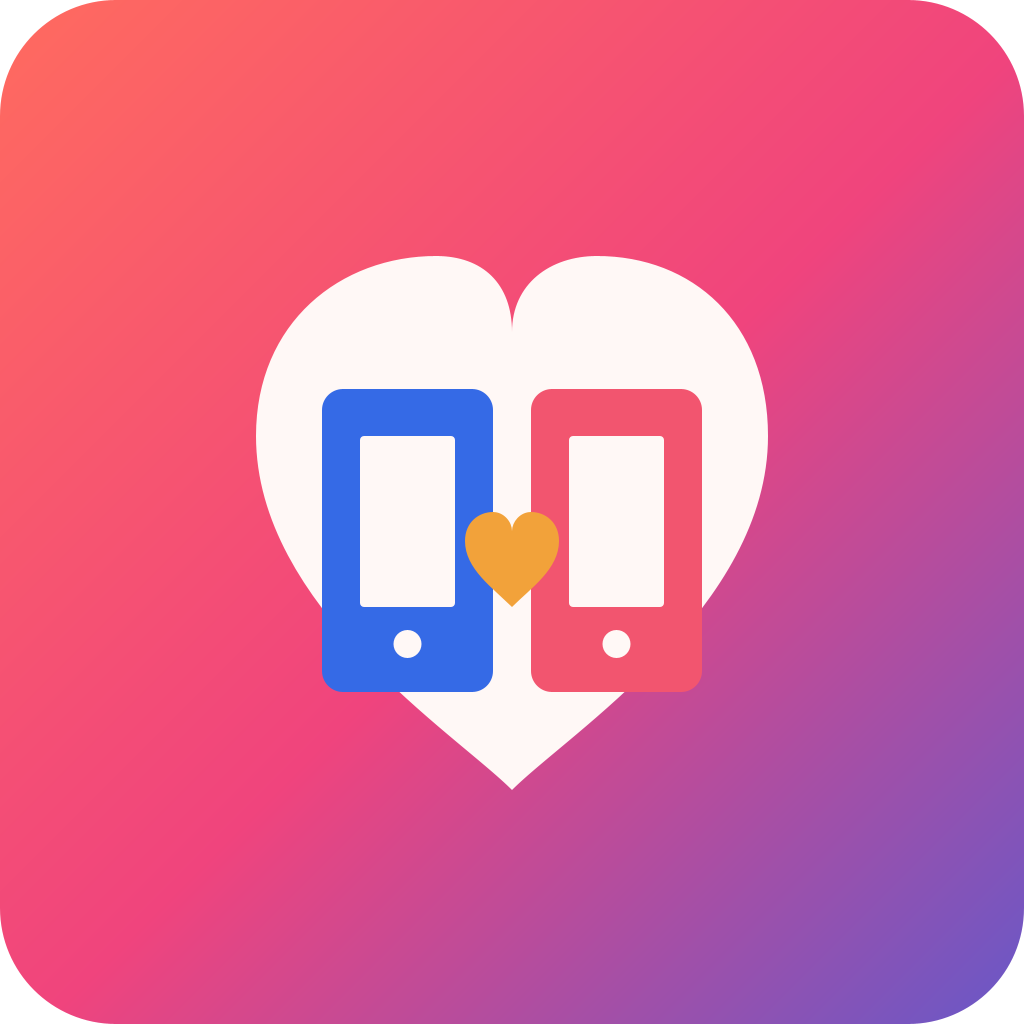
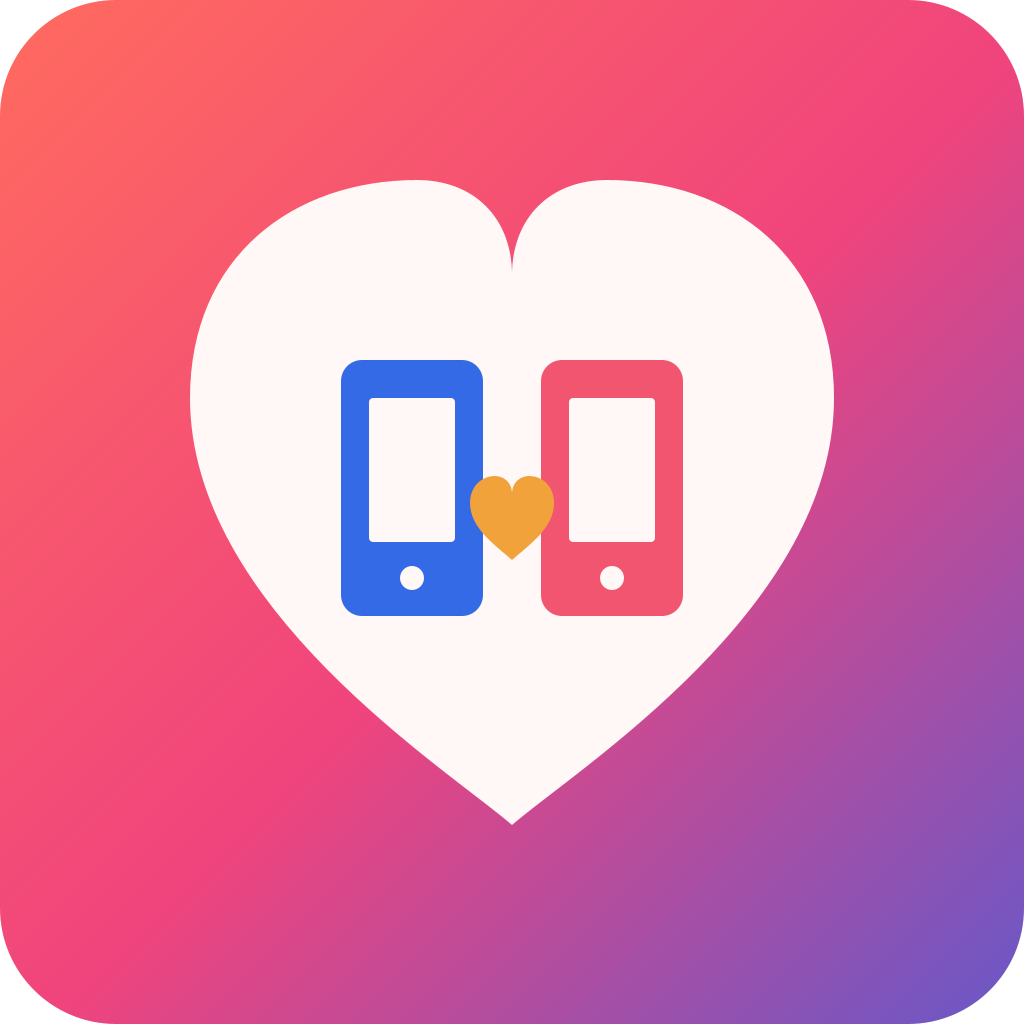
Contain launcher artwork within heart

Changed region(s): [[0.1875, 0.1562, 0.8125, 0.8125]]

diff --git a/scripts/GenerateLogoAssets.java b/scripts/GenerateLogoAssets.java
@@ -37,28 +37,28 @@ public class GenerateLogoAssets {
         g.fill(new RoundRectangle2D.Double(0, 0, size, size, 232 * s, 232 * s));
 
         Path2D heart = new Path2D.Double();
-        heart.moveTo(512 * s, 790 * s);
-        heart.curveTo(455 * s, 733 * s, 256 * s, 607 * s, 256 * s, 436 * s);
-        heart.curveTo(256 * s, 322 * s, 341 * s, 256 * s, 436 * s, 256 * s);
-        heart.curveTo(483 * s, 256 * s, 512 * s, 284 * s, 512 * s, 332 * s);
-        heart.curveTo(512 * s, 284 * s, 550 * s, 256 * s, 597 * s, 256 * s);
-        heart.curveTo(692 * s, 256 * s, 768 * s, 322 * s, 768 * s, 436 * s);
-        heart.curveTo(768 * s, 607 * s, 569 * s, 733 * s, 512 * s, 790 * s);
+        heart.moveTo(512 * s, 825 * s);
+        heart.curveTo(446 * s, 768 * s, 190 * s, 607 * s, 190 * s, 398 * s);
+        heart.curveTo(190 * s, 256 * s, 294 * s, 180 * s, 417 * s, 180 * s);
+        heart.curveTo(474 * s, 180 * s, 512 * s, 218 * s, 512 * s, 275 * s);
+        heart.curveTo(512 * s, 218 * s, 550 * s, 180 * s, 607 * s, 180 * s);
+        heart.curveTo(730 * s, 180 * s, 834 * s, 256 * s, 834 * s, 398 * s);
+        heart.curveTo(834 * s, 607 * s, 578 * s, 768 * s, 512 * s, 825 * s);
         heart.closePath();
         g.setColor(c(0xfff8f6));
         g.fill(heart);
 
-        drawPhone(g, 322 * s, 389 * s, 171 * s, 303 * s, c(0x356ae6), s);
-        drawPhone(g, 531 * s, 389 * s, 171 * s, 303 * s, c(0xf2556f), s);
+        drawPhone(g, 341 * s, 360 * s, 142 * s, 256 * s, c(0x356ae6), s);
+        drawPhone(g, 541 * s, 360 * s, 142 * s, 256 * s, c(0xf2556f), s);
 
         Path2D linkHeart = new Path2D.Double();
-        linkHeart.moveTo(512 * s, 607 * s);
-        linkHeart.curveTo(493 * s, 588 * s, 465 * s, 569 * s, 465 * s, 541 * s);
-        linkHeart.curveTo(465 * s, 522 * s, 479 * s, 512 * s, 493 * s, 512 * s);
-        linkHeart.curveTo(504 * s, 512 * s, 512 * s, 522 * s, 512 * s, 531 * s);
-        linkHeart.curveTo(512 * s, 522 * s, 520 * s, 512 * s, 531 * s, 512 * s);
-        linkHeart.curveTo(545 * s, 512 * s, 559 * s, 522 * s, 559 * s, 541 * s);
-        linkHeart.curveTo(559 * s, 569 * s, 531 * s, 588 * s, 512 * s, 607 * s);
+        linkHeart.moveTo(512 * s, 560 * s);
+        linkHeart.curveTo(495 * s, 545 * s, 470 * s, 528 * s, 470 * s, 503 * s);
+        linkHeart.curveTo(470 * s, 486 * s, 482 * s, 476 * s, 495 * s, 476 * s);
+        linkHeart.curveTo(505 * s, 476 * s, 512 * s, 484 * s, 512 * s, 493 * s);
+        linkHeart.curveTo(512 * s, 484 * s, 519 * s, 476 * s, 529 * s, 476 * s);
+        linkHeart.curveTo(542 * s, 476 * s, 554 * s, 486 * s, 554 * s, 503 * s);
+        linkHeart.curveTo(554 * s, 528 * s, 529 * s, 545 * s, 512 * s, 560 * s);
         linkHeart.closePath();
         g.setColor(c(0xf2a23a));
         g.fill(linkHeart);
@@ -83,10 +83,10 @@ public class GenerateLogoAssets {
         g.fill(new RoundRectangle2D.Double(x, y, w, h, 42 * scale, 42 * scale));
         g.setColor(c(0xfff8f6));
         g.fill(new RoundRectangle2D.Double(
-                x + 38 * scale, y + 47 * scale, w - 76 * scale, h - 132 * scale,
+                x + 28 * scale, y + 38 * scale, w - 56 * scale, h - 112 * scale,
                 8 * scale, 8 * scale));
         g.fill(new Ellipse2D.Double(
-                x + (w / 2) - 14 * scale, y + h - 62 * scale, 28 * scale, 28 * scale));
+                x + (w / 2) - 12 * scale, y + h - 50 * scale, 24 * scale, 24 * scale));
     }
 
     private static Color c(int rgb) {
